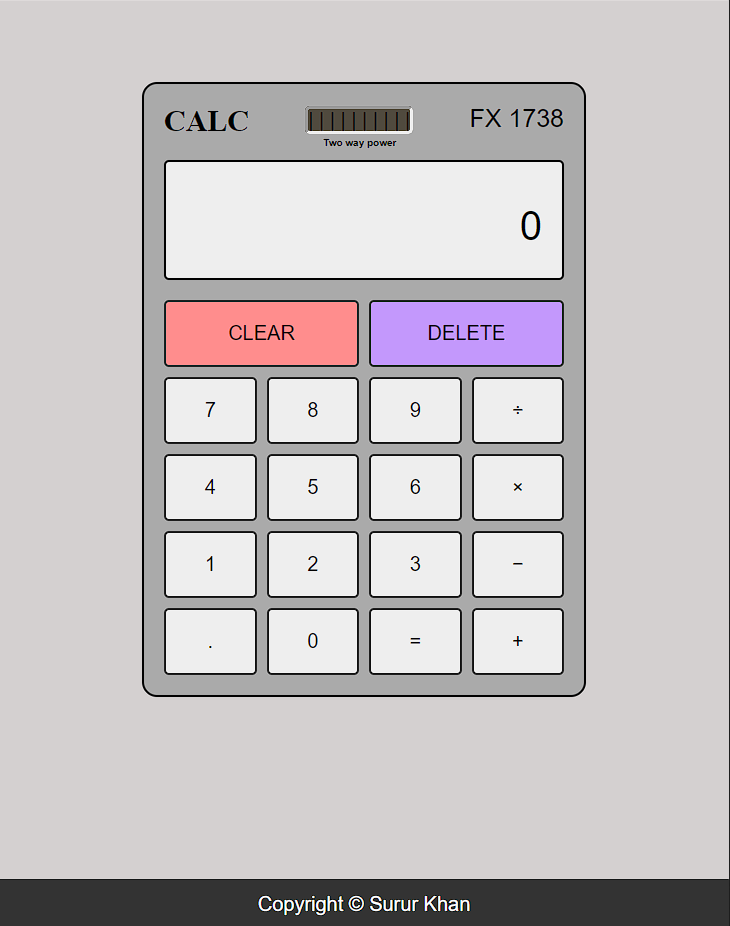
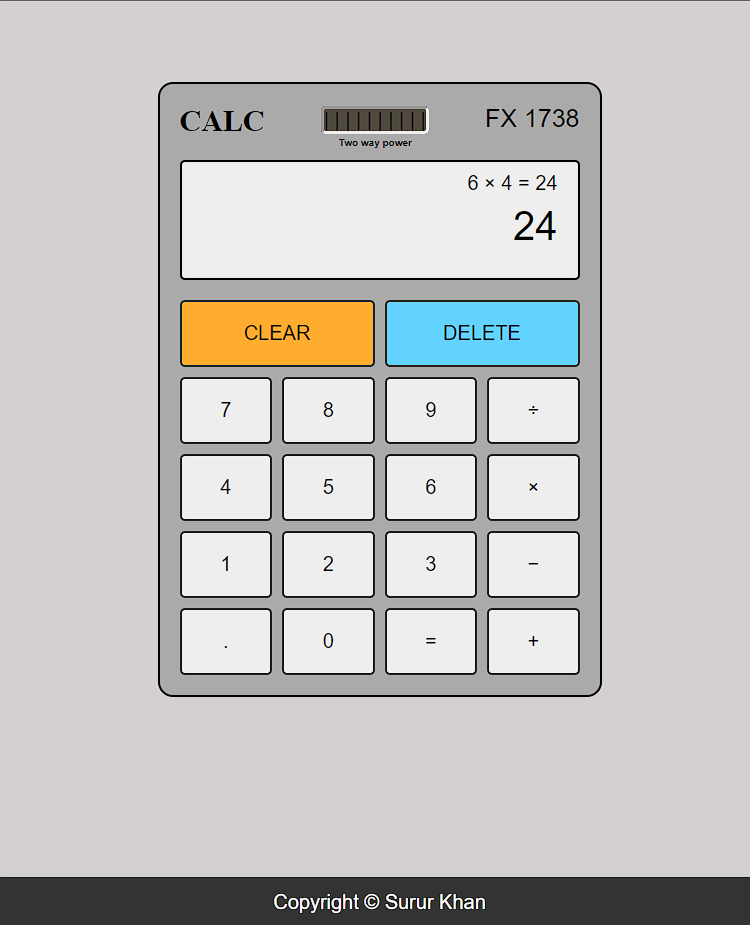
New colors

diff --git a/styles.css b/styles.css
@@ -106,27 +106,27 @@ body {
 }
 
 .clear {
-    background-color: rgb(255, 141, 141);
+    background-color: rgb(255, 172, 47);
 }
 
 .clear:hover {
-    background-color: rgb(255, 121, 121);
+    background-color: rgb(245, 168, 52);
 }
 
 .clear:active {
-    background-color: rgb(209, 98, 98);
+    background-color: rgb(207, 140, 39);
 }
 
 .del {
-    background-color: rgb(195, 152, 252);
+    background-color: rgb(98, 211, 255);
 }
 
 .del:hover {
-    background-color: rgb(187, 143, 255);
+    background-color: rgb(87, 186, 224);
 }
 
 .del:active {
-    background-color: rgb(145, 109, 212);
+    background-color: rgb(76, 162, 196);
 }
 
 .footer {
